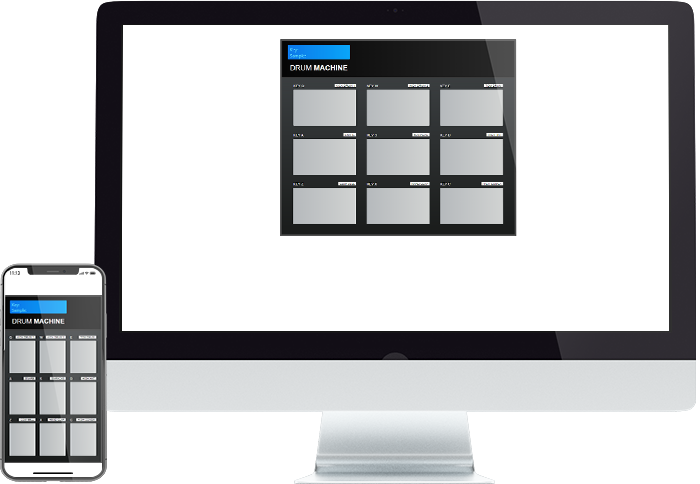
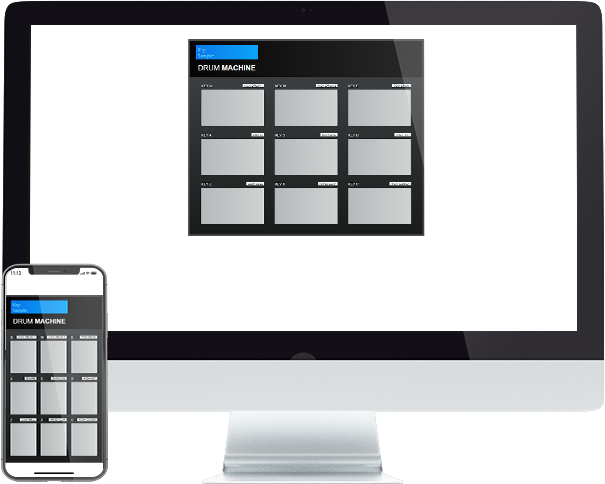
Concept to Re-implement Portfolio Section

diff --git a/index.html b/index.html
@@ -33,7 +33,8 @@
                 </div>
                 <div class="portfolio-item javascript-project featured-project show">
                     <div class="img">
-                        <img src="images/language_learning_app.png">
+                        <img class="screen" src="images/puttytribe.jpg">
+                        <img class="monitor" src="images/cutout_screen.png">
                     </div>
                     <div class="meta">
                         <h3>Language Learning App</h3>

diff --git a/css/dest/styles.min.css b/css/dest/styles.min.css
@@ -117,10 +117,14 @@ body {
         padding-top: 10px; }
     .work .portfolio-item .img {
       width: 90%;
-      margin: 0 auto; }
+      margin: 0 auto;
+      position: relative; }
     .work .portfolio-item img {
-      width: 100%;
-      border-radius: 2%; }
+      width: 100%; }
+      .work .portfolio-item img.screen {
+        position: absolute;
+        padding: 4%;
+        box-sizing: border-box; }
     .work .portfolio-item p {
       line-height: 1.5em; }
     .work .portfolio-item h3 {

diff --git a/css/src/main.scss b/css/src/main.scss
@@ -132,10 +132,15 @@ body {
     .img {
       width: 90%;
       margin: 0 auto;
+      position: relative;
     }
     img {
       width: 100%;
-      border-radius: 2%;
+      &.screen {
+        position: absolute;
+        padding: 4%;
+        box-sizing: border-box;
+      }
     }
     p {
       line-height: 1.5em;
